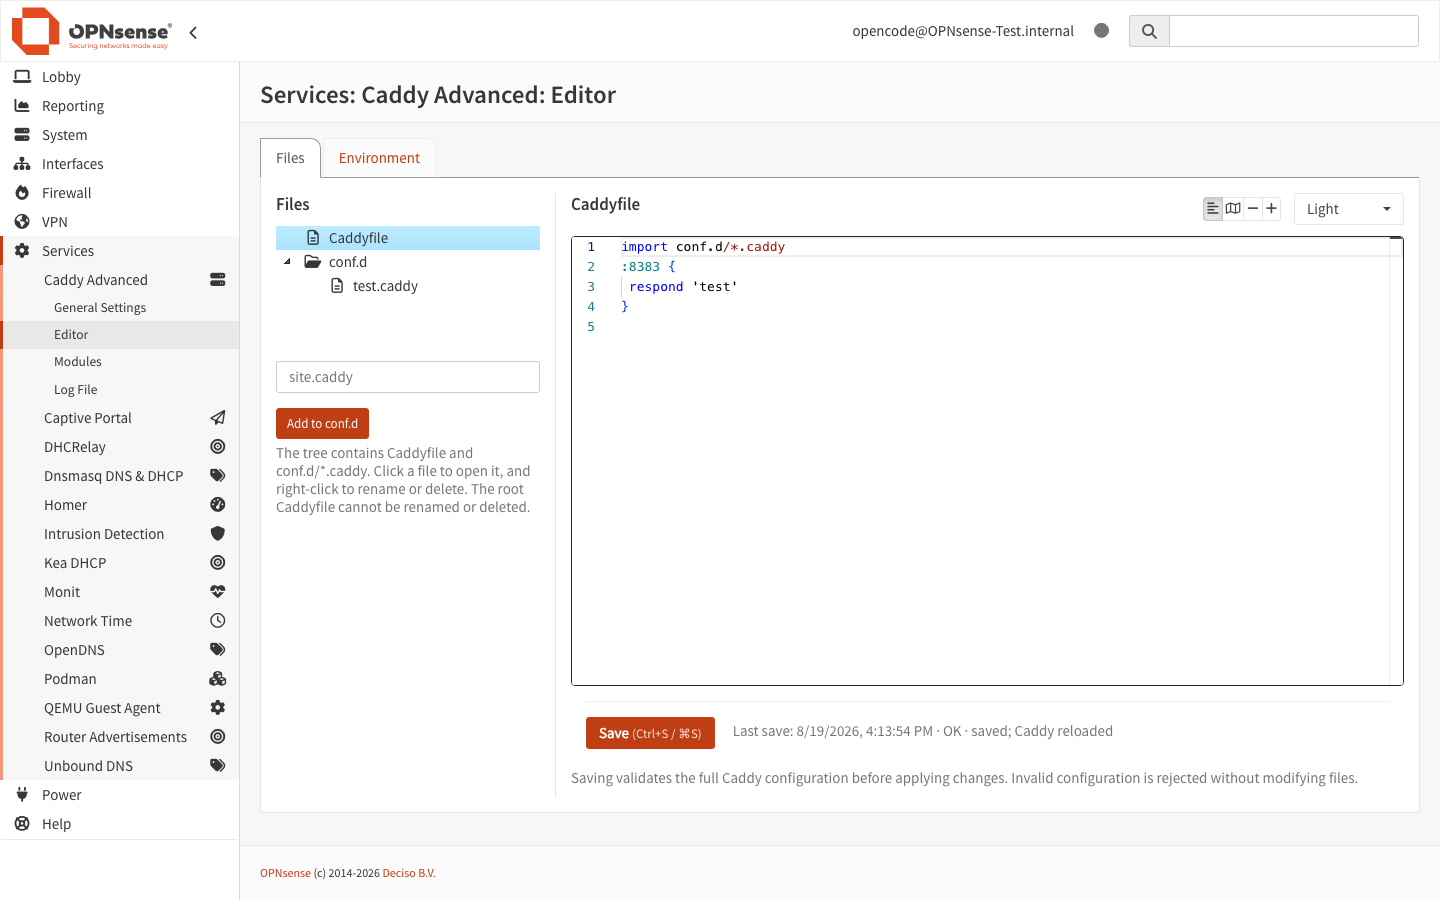
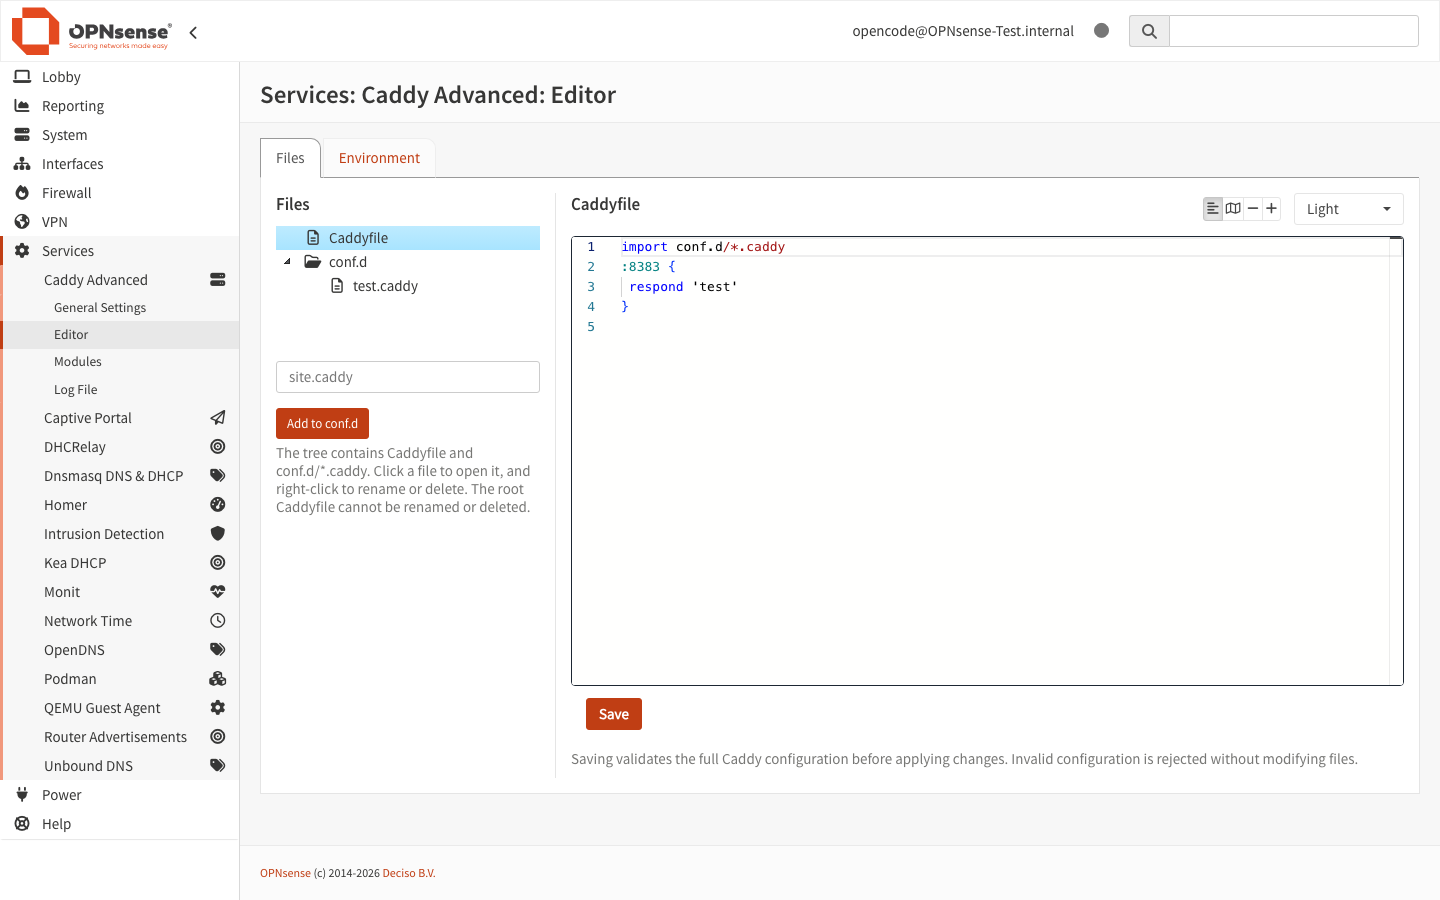
fix(plugins): editor save UX, podman dashboard polish, and remote guide alignment #330-#334 (#335)
* fix(plugins): editor save UX, podman dashboard polish, and remote guide alignment #330 #331 #332 #333 #334

* fix(os-caddy-advanced): seed Caddyfile with format console global log option #330

Changed region(s): [[0.4062, 0.7778, 0.9375, 0.8711]]

diff --git a/pkg-tool/tests/test_podman_seam.py b/pkg-tool/tests/test_podman_seam.py
@@ -41,7 +41,7 @@ def test_os_podman_spec_and_files_valid():
     manifest = spec.get("pkg_manifest", {})
     assert manifest.get("name") == "podman"
     assert manifest.get("origin") == "opnware/os-podman"
-    assert manifest.get("version") == "0.1.9"
+    assert manifest.get("version") == "0.1.10"
 
     deps = manifest.get("deps", {})
     for name in REDISTRIBUTE_PKGS:
@@ -103,7 +103,6 @@ def test_os_podman_spec_and_files_valid():
     assert "public function logsAction" in containers_ctrl
     assert "public function inspectAction" in containers_ctrl
     assert "public function execAction" in containers_ctrl
-    assert "public function statsAction" in containers_ctrl
 
     system_ctrl = (src / "opnsense" / "mvc" / "app" / "controllers" / "OPNsense" / "Podman" / "Api" / "SystemController.php").read_text()
     assert "public function statusAction" in system_ctrl
@@ -114,6 +113,5 @@ def test_os_podman_spec_and_files_valid():
 
     manage_content = (src / "opnsense" / "scripts" / "OPNsense" / "Podman" / "manage.py").read_text()
     assert "containers.exec" in manage_content
-    assert "containers.stats" in manage_content
 
     assert (ROOT_DIR / "docs" / "plugins" / "os-podman.md").exists()

diff --git a/pkgs/os-caddy-advanced/src/opnsense/scripts/OPNsense/CaddyAdvanced/editor_tree.php b/pkgs/os-caddy-advanced/src/opnsense/scripts/OPNsense/CaddyAdvanced/editor_tree.php
@@ -150,7 +150,8 @@ function editor_tree_seed($base = EDITOR_TREE_BASE)
     }
     $caddyfile = $base . '/Caddyfile';
     if (!is_file($caddyfile)) {
-        if (file_put_contents($caddyfile, "import conf.d/*.caddy\n") === false) {
+        $seedContent = "{\n\tlog {\n\t\toutput file /var/log/caddy/caddy.log\n\t\tformat console\n\t}\n}\n\nimport conf.d/*.caddy\n";
+        if (file_put_contents($caddyfile, $seedContent) === false) {
             return 'cannot create Caddyfile';
         }
     } else {

diff --git a/pkgs/os-podman/src/opnsense/scripts/OPNsense/Podman/manage.py b/pkgs/os-podman/src/opnsense/scripts/OPNsense/Podman/manage.py
@@ -102,8 +102,6 @@ def main():
         run_podman(["logs", "--tail", "200", param])
     elif action == "containers.inspect" and param:
         run_podman(["inspect", param, "--format", "json"])
-    elif action == "containers.stats":
-        run_podman(["stats", "--no-stream", "--format", "json"])
     elif action == "containers.exec" and param:
         container_id = param
         cmd_arg = sys.argv[3] if len(sys.argv) >= 4 else ""

diff --git a/pkgs/os-podman/src/opnsense/mvc/app/controllers/OPNsense/Podman/Api/ContainersController.php b/pkgs/os-podman/src/opnsense/mvc/app/controllers/OPNsense/Podman/Api/ContainersController.php
@@ -47,11 +47,6 @@ class ContainersController extends PodmanApiControllerBase
         return $this->executeAction('containers_list');
     }
 
-    public function statsAction()
-    {
-        return $this->executeAction('containers_stats');
-    }
-
     public function startAction($id = null)
     {
         return $this->handleContainerAction('start', $id);

diff --git a/pkg-tool/tests/test_os_caddy_editor_seam.py b/pkg-tool/tests/test_os_caddy_editor_seam.py
@@ -17,7 +17,7 @@ EDITOR_CONTROLLER = Path(
 
 def test_seed_uses_flat_confd_glob():
     src = EDITOR_TREE.read_text()
-    assert '"import conf.d/*.caddy\\n"' in src
+    assert "import conf.d/*.caddy" in src
 
 
 def test_no_generated_import_index():
